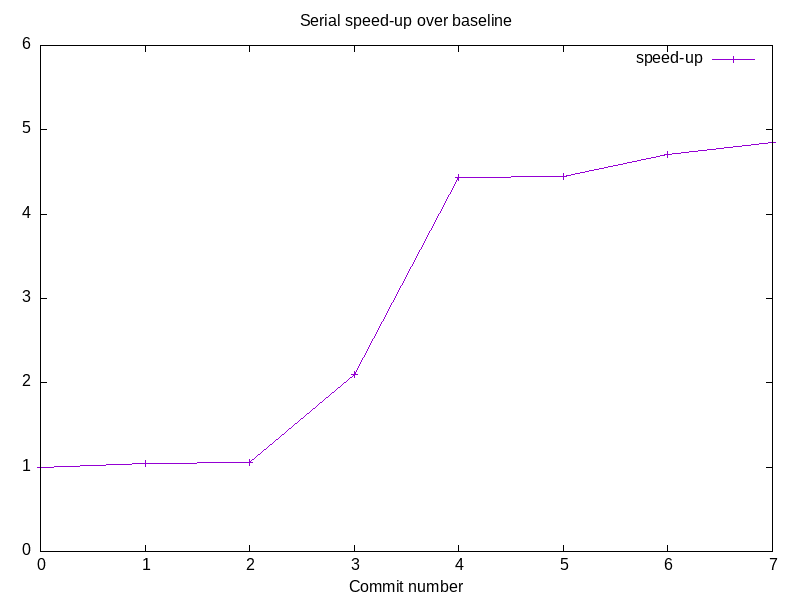
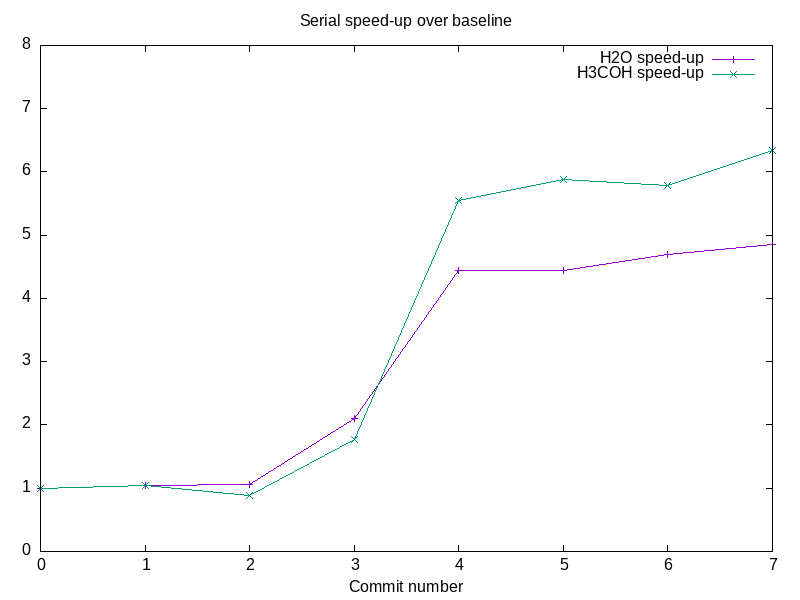
add H3COH benchmarks to plots

Changed region(s): [[0.7188, 0.09, 0.875, 0.15], [0.6875, 0.27, 0.7188, 0.3], [0.0312, 0.48, 0.0625, 0.51]]

diff --git a/README.md b/README.md
@@ -16,7 +16,7 @@ Key concepts used here to increase the parallel performance:
 - use a `reduction` pragma to ensure thread safety
 - collapse multiple loops to improve scaling for higher numbers of threads
 - use `dynamic` scheduling to share uneven workloads equally between threads
-- prevent the operating system from moving running threads between cores
+- use `OMP_PROC_BIND` to prevent the operating system from moving running threads between cores
 
 ## Serial Benchmark history
 
@@ -48,10 +48,10 @@ The parallel speed-up from each commit to the repo:
 
 See the relevant commit message & changes to the code for more details
 
+![scaling-h20](benchmarks/h2o/scaling.png)
+
+## Parallel Scaling
+
+The optimal parallel scaling for two sets of tests data: `H2O` and `H3COH`. The second test case has larger matrices and longer loops than the first one, which results in nearly perfect linear scaling of the performance with the number of threads:
+
 ![scaling](benchmarks/scaling.png)
-
-## Parallel Scaling h3coh test case
-
-This test case has larger matrices and longer loops than the previous one, which results in nearly perfect linear scaling of the performance with the number of threads:
-
-![h3coh-scaling](benchmarks/h3coh/scaling.png)
